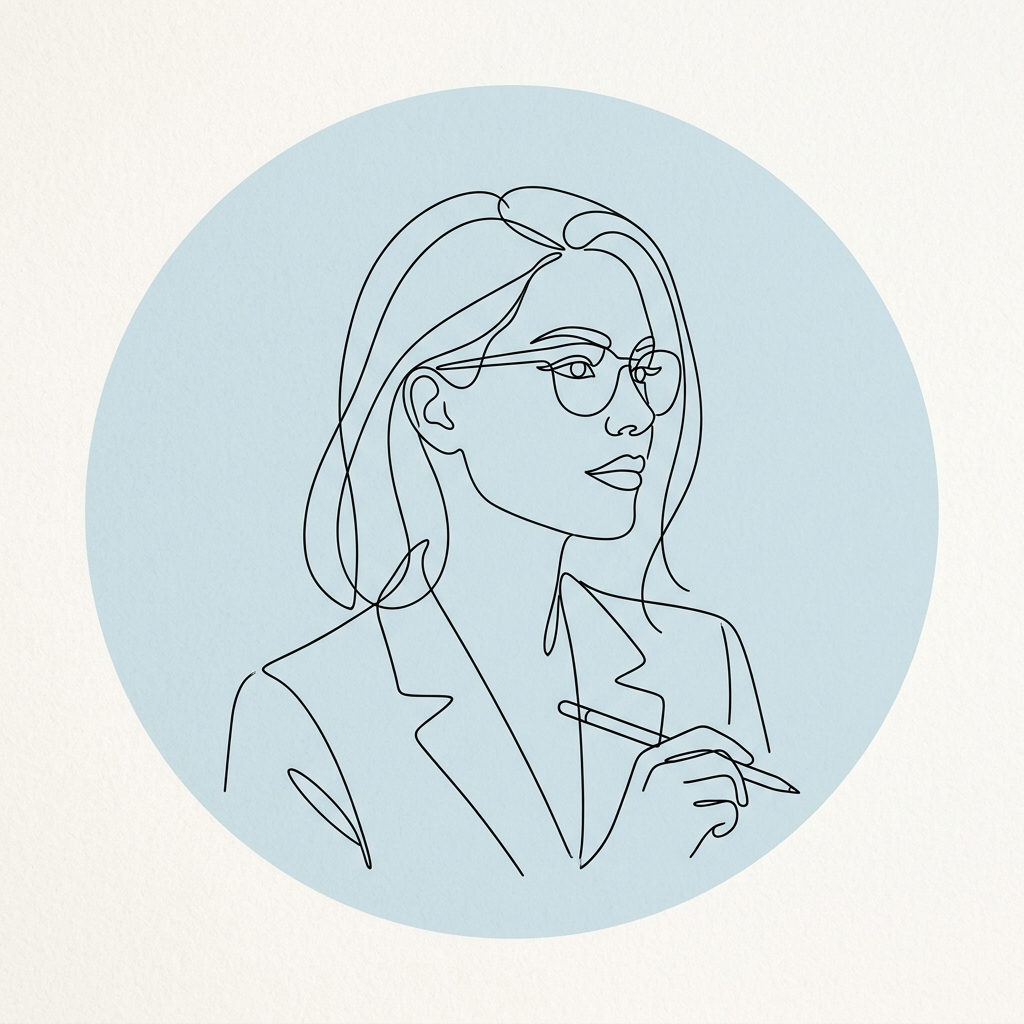
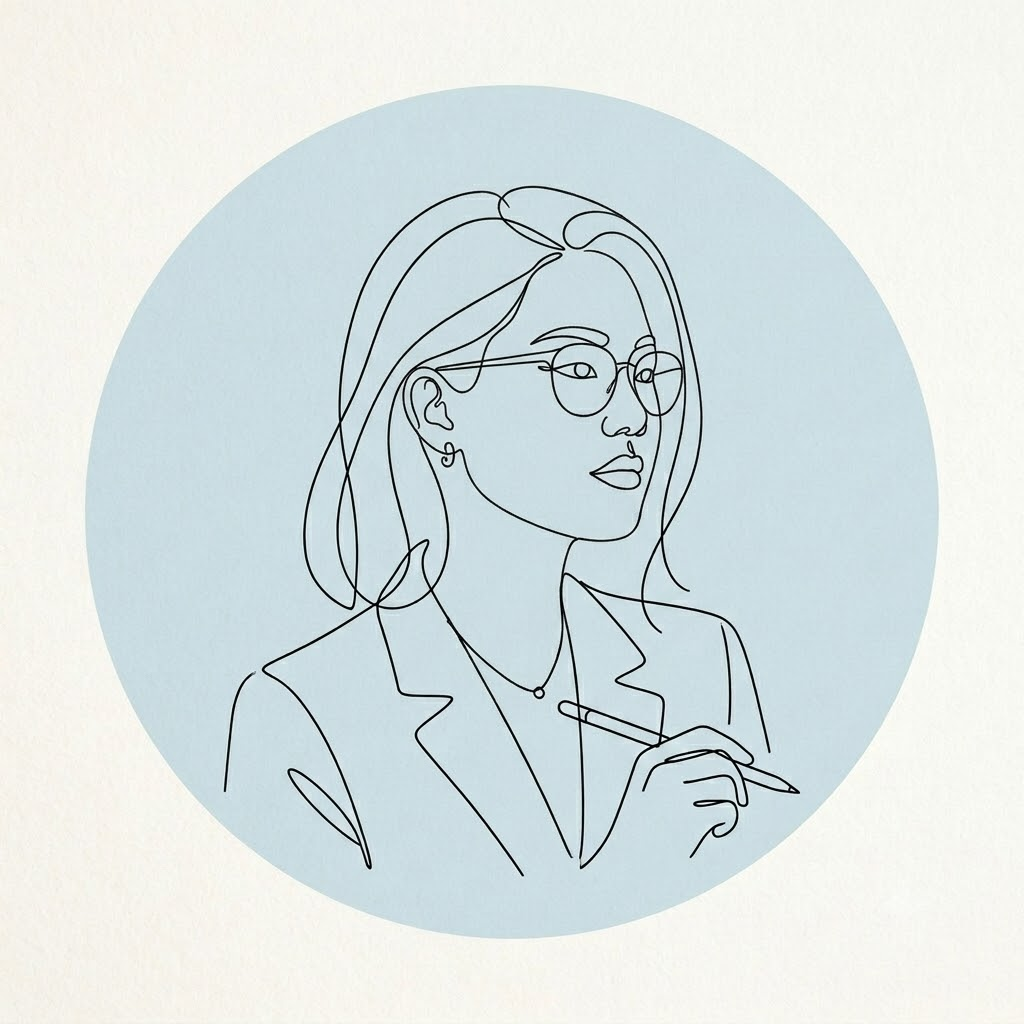
Add files via upload

diff --git a/style.css b/style.css
@@ -409,6 +409,156 @@ section + section {
     transform: translateX(5px);
 }
 
+/* View All Projects / Toggle Section */
+.more-projects-wrapper {
+    margin-top: 50px;
+    display: flex;
+    flex-direction: column;
+    align-items: center;
+}
+
+.toggle-projects-btn {
+    background-color: var(--card-bg);
+    border: 1px solid var(--border-color);
+    color: var(--text-primary);
+    padding: 15px 35px;
+    border-radius: 30px;
+    font-size: 0.95rem;
+    font-weight: 600;
+    cursor: pointer;
+    display: flex;
+    align-items: center;
+    gap: 10px;
+    transition: var(--transition-smooth);
+    box-shadow: 0 5px 15px rgba(0, 0, 0, 0.01);
+}
+
+.toggle-projects-btn:hover {
+    border-color: var(--accent-color);
+    color: var(--accent-hover);
+    transform: translateY(-2px);
+    box-shadow: 0 10px 25px rgba(123, 164, 219, 0.08);
+}
+
+.toggle-icon {
+    transition: transform 0.4s cubic-bezier(0.16, 1, 0.3, 1);
+}
+
+.toggle-projects-btn.active .toggle-icon {
+    transform: rotate(180deg);
+}
+
+.sub-projects-container {
+    width: 100%;
+    max-width: 900px;
+    margin-top: 30px;
+    overflow: hidden;
+    transition: max-height 0.6s cubic-bezier(0.16, 1, 0.3, 1), opacity 0.5s ease;
+}
+
+.sub-projects-container.collapsed {
+    max-height: 0 !important;
+    opacity: 0;
+    pointer-events: none;
+}
+
+.sub-projects-container.expanded {
+    max-height: 800px; /* high enough to cover all 6 items */
+    opacity: 1;
+    pointer-events: auto;
+}
+
+.sub-projects-list {
+    display: flex;
+    flex-direction: column;
+    gap: 15px;
+    padding: 10px 0;
+}
+
+.sub-project-item {
+    display: flex;
+    align-items: center;
+    justify-content: space-between;
+    background-color: var(--card-bg);
+    border: 1px solid var(--border-color);
+    border-radius: 16px;
+    padding: 20px 30px;
+    cursor: pointer;
+    transition: var(--transition-smooth);
+}
+
+.sub-project-item:hover {
+    border-color: var(--accent-color);
+    transform: translateX(6px);
+    background-color: var(--accent-light);
+    box-shadow: 0 5px 15px rgba(123, 164, 219, 0.05);
+}
+
+.sub-proj-img-wrapper {
+    width: 80px;
+    height: 50px;
+    border-radius: 8px;
+    overflow: hidden;
+    margin-right: 25px;
+    border: 1px solid var(--border-color);
+    background-color: #eaeaea;
+    flex-shrink: 0;
+}
+
+.sub-proj-img-wrapper img {
+    width: 100%;
+    height: 100%;
+    object-fit: cover;
+    transition: var(--transition-smooth);
+}
+
+.sub-project-item:hover .sub-proj-img-wrapper img {
+    transform: scale(1.08);
+}
+
+.sub-proj-info {
+    flex-grow: 1;
+    display: flex;
+    flex-direction: column;
+    gap: 4px;
+}
+
+.sub-proj-cat {
+    font-size: 0.75rem;
+    font-weight: 600;
+    text-transform: uppercase;
+    letter-spacing: 0.05em;
+    color: var(--text-muted);
+}
+
+.sub-proj-title {
+    font-size: 1.1rem;
+    font-weight: 500;
+    color: var(--text-primary);
+}
+
+.sub-proj-view-btn {
+    font-size: 0.9rem;
+    font-weight: 600;
+    color: var(--text-secondary);
+    display: flex;
+    align-items: center;
+    gap: 6px;
+    transition: var(--transition-fast);
+}
+
+.sub-project-item:hover .sub-proj-view-btn {
+    color: var(--accent-hover);
+}
+
+.sub-proj-view-btn svg {
+    transition: var(--transition-fast);
+}
+
+.sub-project-item:hover .sub-proj-view-btn svg {
+    transform: translateX(4px);
+}
+
 /* About & Skills Section */
 .about-container {
     display: grid;

diff --git a/index.html b/index.html
@@ -16,7 +16,7 @@
             <nav>
                 <ul>
                     <li><a href="#hero" class="active">Intro</a></li>
-                    <li><a href="#projects">Projects</a></li>
+                    <li><a href="#projects">Featured Projects</a></li>
                     <li><a href="#about">About</a></li>
                     <li><a href="#contact">Contact</a></li>
                 </ul>
@@ -197,6 +197,122 @@
                 </div>
             </div>
         </div>
+
+        <!-- More Projects Section (Toggled by button) -->
+        <div class="more-projects-wrapper reveal">
+            <button id="toggle-projects-btn" class="toggle-projects-btn">
+                <span>View All Projects</span>
+                <svg class="toggle-icon" width="12" height="12" viewBox="0 0 12 12" fill="none" xmlns="http://www.w3.org/2000/svg">
+                    <path d="M1 4L6 9L11 4" stroke="currentColor" stroke-width="2" stroke-linecap="round" stroke-linejoin="round"/>
+                </svg>
+            </button>
+
+            <div id="sub-projects-container" class="sub-projects-container collapsed">
+                <div class="sub-projects-list">
+                    <!-- Sub Project 1 (Product) -->
+                    <div class="sub-project-item" data-id="product">
+                        <div class="sub-proj-img-wrapper">
+                            <img src="images/product.png" alt="Form Wireless Speaker">
+                        </div>
+                        <div class="sub-proj-info">
+                            <span class="sub-proj-cat">Product Design</span>
+                            <h4 class="sub-proj-title">Form Wireless Speaker: Sound & Form</h4>
+                        </div>
+                        <span class="sub-proj-view-btn">
+                            View
+                            <svg width="12" height="10" viewBox="0 0 12 10" fill="none" xmlns="http://www.w3.org/2000/svg">
+                                <path d="M1 5H11M11 5L7 1M11 5L7 9" stroke="currentColor" stroke-width="1.5" stroke-linecap="round" stroke-linejoin="round"/>
+                            </svg>
+                        </span>
+                    </div>
+
+                    <!-- Sub Project 2 (Chair) -->
+                    <div class="sub-project-item" data-id="chair">
+                        <div class="sub-proj-img-wrapper">
+                            <img src="images/chair.png" alt="Sisu Lounge Chair">
+                        </div>
+                        <div class="sub-proj-info">
+                            <span class="sub-proj-cat">Furniture Design</span>
+                            <h4 class="sub-proj-title">Sisu Lounge Chair: Sculptural Comfort</h4>
+                        </div>
+                        <span class="sub-proj-view-btn">
+                            View
+                            <svg width="12" height="10" viewBox="0 0 12 10" fill="none" xmlns="http://www.w3.org/2000/svg">
+                                <path d="M1 5H11M11 5L7 1M11 5L7 9" stroke="currentColor" stroke-width="1.5" stroke-linecap="round" stroke-linejoin="round"/>
+                            </svg>
+                        </span>
+                    </div>
+
+                    <!-- Sub Project 3 (Interior) -->
+                    <div class="sub-project-item" data-id="interior">
+                        <div class="sub-proj-img-wrapper">
+                            <img src="images/interior.png" alt="Lumiere Atelier">
+                        </div>
+                        <div class="sub-proj-info">
+                            <span class="sub-proj-cat">Interior Environment</span>
+                            <h4 class="sub-proj-title">Lumiere Atelier: Creative Co-working Space</h4>
+                        </div>
+                        <span class="sub-proj-view-btn">
+                            View
+                            <svg width="12" height="10" viewBox="0 0 12 10" fill="none" xmlns="http://www.w3.org/2000/svg">
+                                <path d="M1 5H11M11 5L7 1M11 5L7 9" stroke="currentColor" stroke-width="1.5" stroke-linecap="round" stroke-linejoin="round"/>
+                            </svg>
+                        </span>
+                    </div>
+
+                    <!-- Sub Project 4 (Branding) -->
+                    <div class="sub-project-item" data-id="branding">
+                        <div class="sub-proj-img-wrapper">
+                            <img src="images/branding.png" alt="Monolith Specialty Coffee House">
+                        </div>
+                        <div class="sub-proj-info">
+                            <span class="sub-proj-cat">Branding Design</span>
+                            <h4 class="sub-proj-title">Monolith Specialty Coffee House Identity</h4>
+                        </div>
+                        <span class="sub-proj-view-btn">
+                            View
+                            <svg width="12" height="10" viewBox="0 0 12 10" fill="none" xmlns="http://www.w3.org/2000/svg">
+                                <path d="M1 5H11M11 5L7 1M11 5L7 9" stroke="currentColor" stroke-width="1.5" stroke-linecap="round" stroke-linejoin="round"/>
+                            </svg>
+                        </span>
+                    </div>
+
+                    <!-- Sub Project 5 (Lighting) -->
+                    <div class="sub-project-item" data-id="lamp">
+                        <div class="sub-proj-img-wrapper">
+                            <img src="images/lamp.png" alt="Aura Pendant Light">
+                        </div>
+                        <div class="sub-proj-info">
+                            <span class="sub-proj-cat">Lighting Design</span>
+                            <h4 class="sub-proj-title">Aura Pendant Light: Diffused Eclipse</h4>
+                        </div>
+                        <span class="sub-proj-view-btn">
+                            View
+                            <svg width="12" height="10" viewBox="0 0 12 10" fill="none" xmlns="http://www.w3.org/2000/svg">
+                                <path d="M1 5H11M11 5L7 1M11 5L7 9" stroke="currentColor" stroke-width="1.5" stroke-linecap="round" stroke-linejoin="round"/>
+                            </svg>
+                        </span>
+                    </div>
+
+                    <!-- Sub Project 6 (UX/UI) -->
+                    <div class="sub-project-item" data-id="oasis">
+                        <div class="sub-proj-img-wrapper">
+                            <img src="images/oasis.png" alt="Oasis Botanical Garden">
+                        </div>
+                        <div class="sub-proj-info">
+                            <span class="sub-proj-cat">UX/UI Design</span>
+                            <h4 class="sub-proj-title">Oasis Botanical Garden Brand & UI</h4>
+                        </div>
+                        <span class="sub-proj-view-btn">
+                            View
+                            <svg width="12" height="10" viewBox="0 0 12 10" fill="none" xmlns="http://www.w3.org/2000/svg">
+                                <path d="M1 5H11M11 5L7 1M11 5L7 9" stroke="currentColor" stroke-width="1.5" stroke-linecap="round" stroke-linejoin="round"/>
+                            </svg>
+                        </span>
+                    </div>
+                </div>
+            </div>
+        </div>
     </section>
 
     <!-- About & Skills Section -->
@@ -354,7 +470,7 @@
             </div>
 
             <div class="sns-links">
-                <a href="https://instagram.com" target="_blank" rel="noopener noreferrer" class="sns-link">Instagram</a>
+                <a href="https://www.instagram.com/blue_rrose0.0?igsh=ZzhpZzJuZTdkZzZr" target="_blank" rel="noopener noreferrer" class="sns-link">Instagram</a>
             </div>
         </div>
     </section>

diff --git a/script.js b/script.js
@@ -193,6 +193,36 @@ document.addEventListener("DOMContentLoaded", () => {
         });
     });
 
+    // Sub-projects list click modal integration
+    const subProjectItems = document.querySelectorAll(".sub-project-item");
+    subProjectItems.forEach(item => {
+        item.addEventListener("click", (e) => {
+            const projectId = item.getAttribute("data-id");
+            openModal(projectId);
+        });
+    });
+
+    // More Projects Toggle Controller
+    const toggleBtn = document.getElementById("toggle-projects-btn");
+    const subProjectsContainer = document.getElementById("sub-projects-container");
+
+    if (toggleBtn && subProjectsContainer) {
+        toggleBtn.addEventListener("click", () => {
+            const isCollapsed = subProjectsContainer.classList.contains("collapsed");
+            if (isCollapsed) {
+                subProjectsContainer.classList.remove("collapsed");
+                subProjectsContainer.classList.add("expanded");
+                toggleBtn.classList.add("active");
+                toggleBtn.querySelector("span").textContent = "더 보기 접기";
+            } else {
+                subProjectsContainer.classList.remove("expanded");
+                subProjectsContainer.classList.add("collapsed");
+                toggleBtn.classList.remove("active");
+                toggleBtn.querySelector("span").textContent = "View All Projects";
+            }
+        });
+    }
+
     modalCloseBtn.addEventListener("click", closeModal);
     modalOverlay.addEventListener("click", (e) => {
         if (e.target === modalOverlay) closeModal();